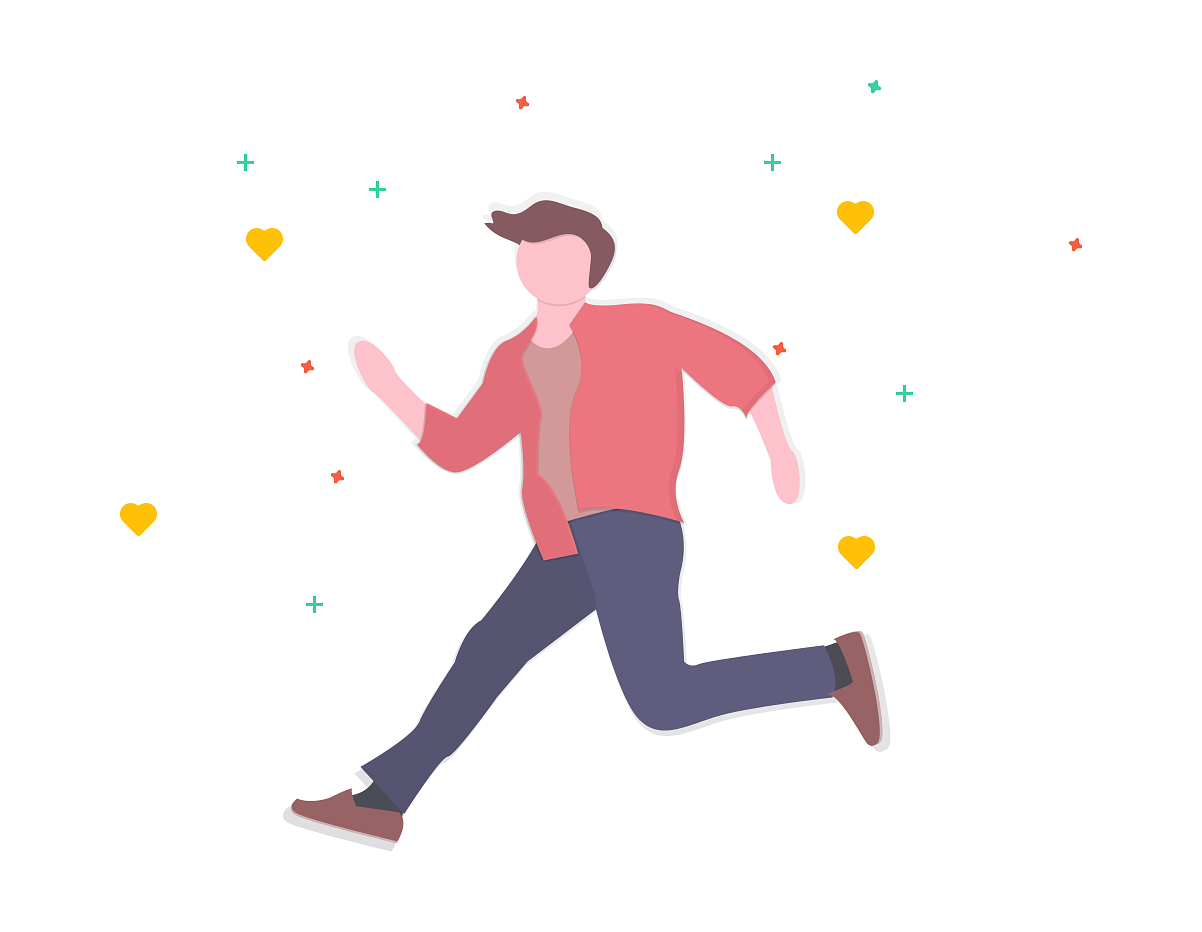
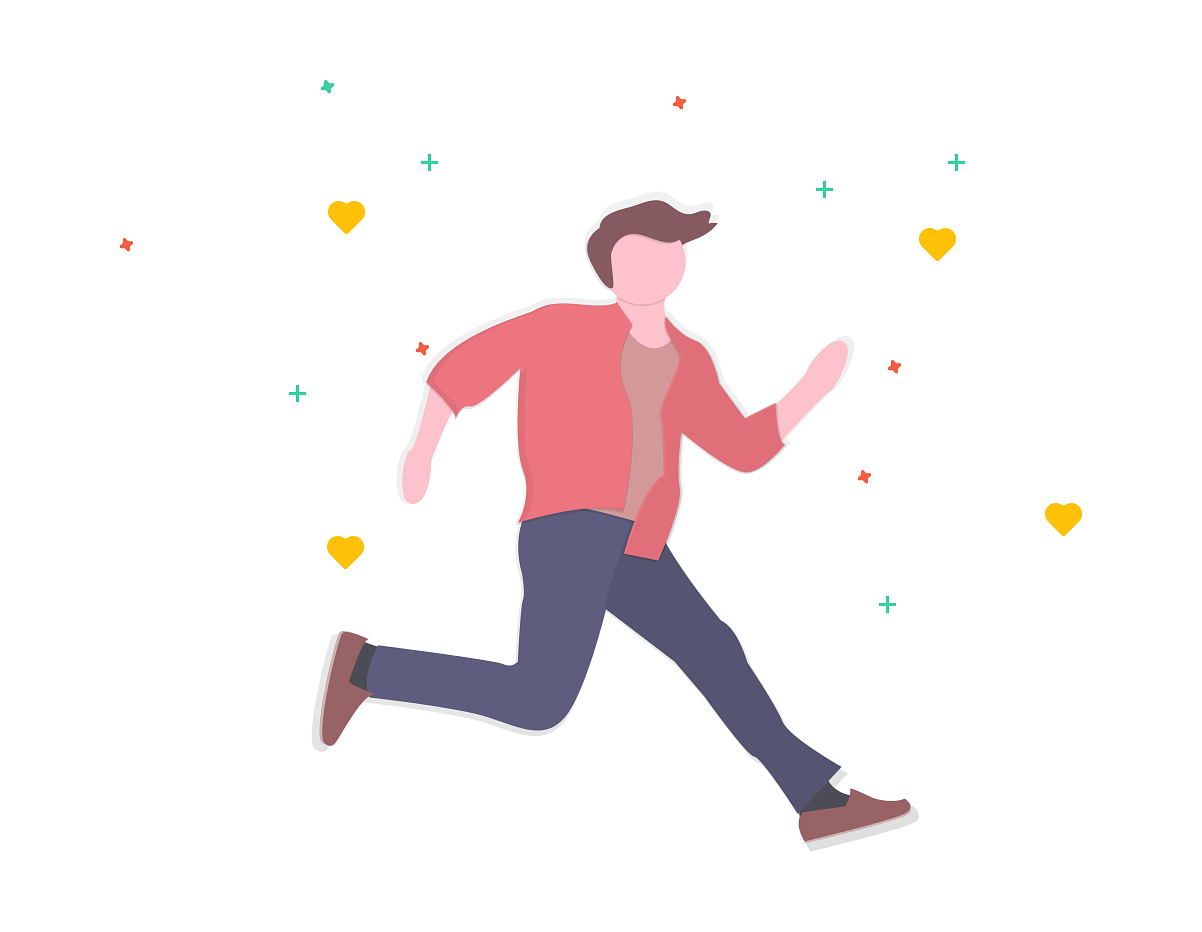
flip walker

diff --git a/app/assets/stylesheets/config/_colors.scss b/app/assets/stylesheets/config/_colors.scss
@@ -12,12 +12,19 @@ $light-gray: #F4F4F4;
 
 // Colorhunt:
 $my-white: #FAFAFA;
-$my-orange: #ffc300;//#f54829;
+
+$my-orange: #ffc300;
 $my-light-orange: #ffce2e;
 $my-light-blue: #40b1f1;
 $my-dark-blue: #086194;
+
+// $original-orange: 
 // $my-orange: #f54829;
 // $my-light-blue: #8EA604;
 // $my-dark-blue: #007519;
 
-
+// Yellow-Lionel-weekend
+// $my-orange: #ffc300;//#f54829;
+// $my-light-orange: #ffce2e;
+// $my-light-blue: #40b1f1;
+// $my-dark-blue: #086194;

diff --git a/app/assets/stylesheets/components/_pts-card.scss b/app/assets/stylesheets/components/_pts-card.scss
@@ -26,4 +26,3 @@
   justify-content: space-between;
   margin: 50px;
 }
-
